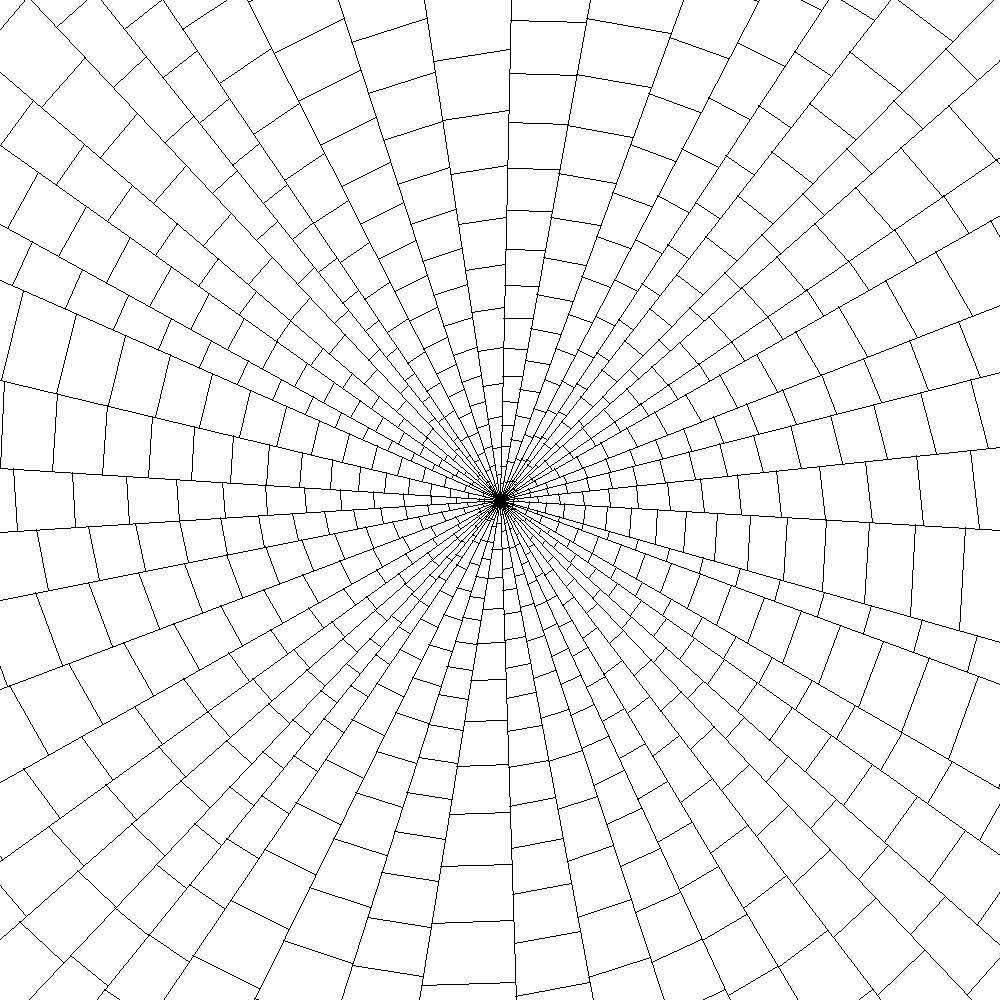
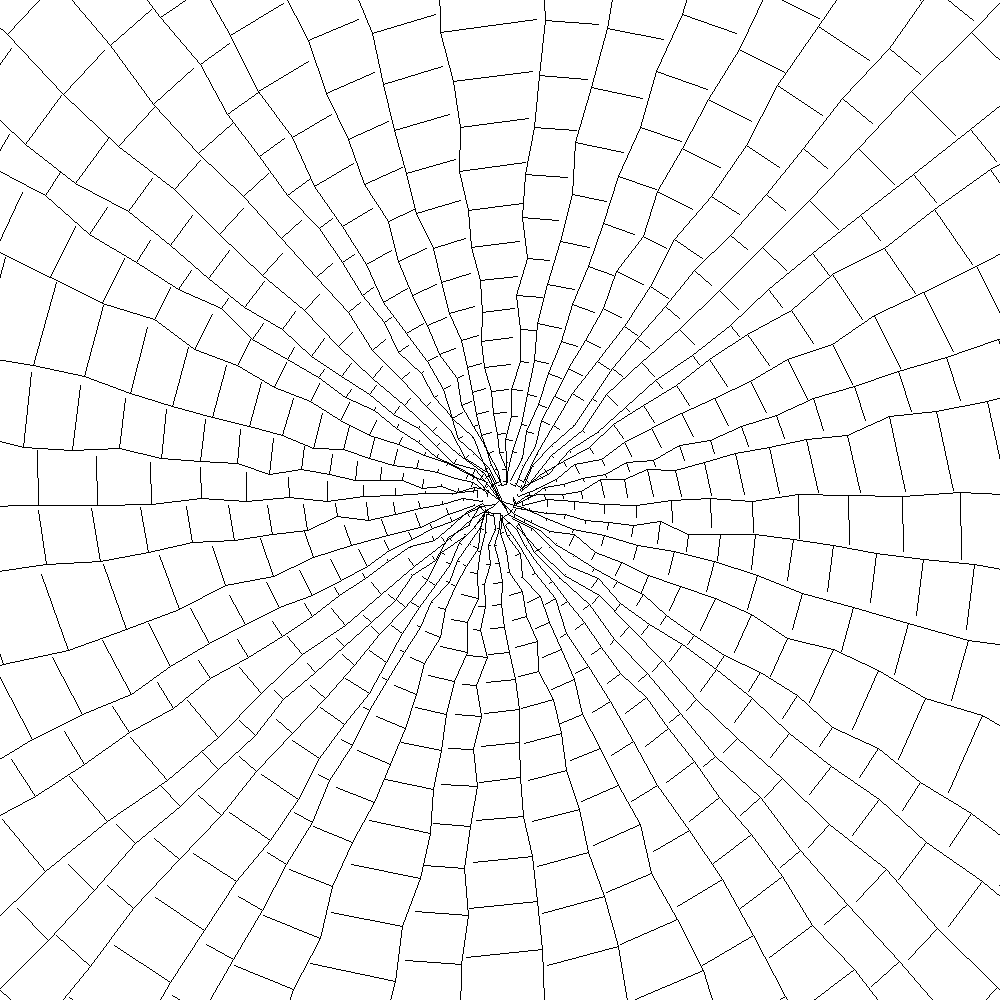
started converting stuff into oop

diff --git a/main2.py b/main2.py
@@ -1,0 +1,177 @@
+from PIL import Image, ImageDraw
+import random
+import math
+
+class Line:
+    def __init__(self, dimensions, breakage_points_per_line, break_point, edge_point):
+        self.dimensions = dimensions
+        self.breakage_points_per_line = breakage_points_per_line
+        self.break_point = break_point
+        self.line_points = self.get_line_points(break_point, edge_point, breakage_points_per_line)
+        self.normals = None
+
+    def get_line_points(self, start, end, break_points):
+        points = [start]
+        diff_x = end[0] - start[0]
+        diff_y = end[1] - start[1]
+        magnitude = math.sqrt(diff_x ** 2 + diff_y ** 2)
+        point_spacing = (magnitude / (break_points + 1)) / random.uniform(1, 2)
+        for i in range(1, break_points + 1, 1):
+            point_spacing *= 1.05
+            scale_factor = point_spacing / magnitude
+            spacing_x = diff_x * scale_factor
+            spacing_y = diff_y * scale_factor
+            points.append((start[0] + (i * spacing_x), start[1] + (i * spacing_y)))
+        points.append(end)
+        return points
+
+    def get_normal_lines(self, edge_point, edge_point2, break_point, number_of_normals):
+        normal_lines = []
+        # calculate normal gradient for edge point
+        gradient = self.get_gradient(edge_point, break_point)
+        if gradient == None:
+            return
+        normal_gradient = -1/gradient
+        
+        # get equation for next line
+        gradient2 = self.get_gradient(edge_point2, break_point)
+        if gradient == None:
+            return
+        y_intercept2 = edge_point2[1] - (gradient2 * edge_point2[0])
+
+        line_points = self.get_line_points(break_point, edge_point, number_of_normals)
+
+        # get intersection coord between normal line and second line for each point on line
+        for i in range(len(line_points) - 1):
+            point = line_points[i]
+            y_intercept = point[1] - (normal_gradient * point[0])
+            #draw.line([point, (100, (100 * normal_gradient) + y_intercept)], fill='green')
+            #draw.line([break_point, (point[0], (point[0] * gradient2) + y_intercept2)], fill='blue')
+
+            new_x = (gradient * (y_intercept2 - y_intercept)) / (-1 - (gradient2 * gradient))
+            new_y = (gradient2 * new_x) + y_intercept2
+            new_point = (new_x, new_y)
+
+            # move point and new point along normals by variation to change shape of region
+            variation = random.randint(1, 10)
+
+            point_normal_gradient = normal_gradient
+            grad = self.get_gradient(new_point, break_point)
+            if grad == 0 or grad == None:
+                continue
+            new_point_normal_gradient = -1 / grad
+            diff_x = new_point[0] - point[0]
+            diff_y = new_point[1] - point[1]
+            magnitude = math.sqrt(diff_x ** 2 + diff_y ** 2)
+            scale_factor = variation / magnitude
+            scale_x = diff_x * scale_factor
+            scale_y = diff_y * scale_factor
+            altered_point = (point[0] + scale_x, point[1] + scale_y)
+            normal_lines.append([altered_point, new_point])
+            #draw.ellipse([new_point, (new_point[0] + 1, new_point[1] + 1)], fill='green')
+
+        print(f"Generated {number_of_normals} lines between all the breakage lines")
+        return normal_lines
+
+    def get_gradient(self, a, b):
+        x = b[0] - a[0]
+        y = b[1] - a[1]
+        try:
+            return y / x
+        except:
+            return None
+        
+def get_edge_points(dimensions, breakage_lines, break_point):
+    perimeter = (dimensions[0] * 2) + (dimensions[1] * 2)
+    
+    # generate evenly spaced points
+    edge_points = [a * (perimeter / breakage_lines) for a in range(breakage_lines)]
+    print(f"Generated {breakage_lines} equally spaced edge points")
+
+    # vary points by a few pixels
+    for x in range(len(edge_points)):
+        direction = -1 if random.randint(0,1) == 0 else 1
+        if direction == -1:
+            edge_points[x] -= random.randint(1,20)
+        else:
+            edge_points[x] += random.randint(1,20)
+    print("Added a variation between 1 and 20 pixels to each edge point")
+
+    # shift points by random amount in random direction
+    direction = -1 if random.randint(0,1) == 0 else 1
+    offset = random.randint(1, breakage_lines)
+    if direction == -1:
+        offset *= -1
+    for x in range(len(edge_points)):
+        edge_points[x] += offset
+    print(f"Offset all edge points by {offset} pixels")
+
+    # move negative values to end of list
+    for point in edge_points:
+        if point < 0:
+            edge_points.append(perimeter + edge_points.pop(0))
+    print("Converted all negative edge points to positive points")
+
+    # put point into edge lists
+    top_edge = []
+    right_edge = []
+    bottom_edge = []
+    left_edge = []
+    for point in edge_points:
+        if point >= 0 and point < dimensions[0]:
+            top_edge.append(point)
+        elif point >= dimensions[0] and point < dimensions[0] + dimensions[1]:
+            right_edge.append(point)
+        elif point >= dimensions[0] + dimensions[1] and point < (dimensions[0] * 2) + dimensions[1]:
+            bottom_edge.append(point)
+        else:
+            left_edge.append(point)
+    print("Put all points into 4 edge lists")
+
+    # convert each edge point into a coordinate
+    for i in range(len(top_edge)):
+        top_edge[i] = (top_edge[i], 0)
+    for i in range(len(right_edge)):
+        right_edge[i] = (dimensions[0], right_edge[i] - dimensions[0])
+    for i in range(len(bottom_edge)):
+        bottom_edge[i] = (dimensions[0] - (bottom_edge[i] - dimensions[0] - dimensions[1]), dimensions[1])
+    for i in range(len(left_edge)):
+        left_edge[i] = (0, dimensions[1] - (left_edge[i] - (dimensions[0] * 2) - dimensions[1]))
+    print("Converted all edge points to coordinates")
+
+    edges = [top_edge, right_edge, bottom_edge, left_edge]
+    return edges
+
+def main():
+    dimensions = (1000, 1000)
+    breakage_lines = 50
+    breakage_points_per_line = 20
+    break_point = (500, 500)
+    line_color = 'black'
+
+    edge_points = get_edge_points(dimensions, breakage_lines, break_point)
+    lines = [Line(dimensions, breakage_points_per_line, break_point, edge_point) for edge in edge_points for edge_point in edge]
+    for edge in edge_points:
+        for i in range(1, len(edge) - 1, 1):
+            lines[i].normals = lines[i].get_normal_lines(edge[i], edge[i + 1], break_point, breakage_points_per_line)
+
+    im = Image.new('RGB', dimensions, (255, 255, 255))
+    draw = ImageDraw.Draw(im)
+    # draw lines from break_point to each edge point
+    '''for edge in edge_points:
+        for point in edge:
+            draw.line([break_point, point], fill=line_color)'''
+    # draw lines for each break point on each line
+    #normal_lines, line_points = get_normal_lines(edge_points, break_point, breakage_points_per_line)
+    for line in lines:
+        for normal in line.normals:
+            draw.line(normal, fill=line_color)
+
+    # draw lines emitting from break point
+    #for line in line_points:
+    #    for x in range(len(line) - 1):
+    #        draw.line([line[x], line[x + 1]], fill='black')
+    im.save('output.png')
+
+if __name__ == '__main__':
+    main()

diff --git a/main.py b/main.py
@@ -86,27 +86,25 @@ def get_normal_lines(edges, break_point, number_of_normals):
     points.append(points[0])
     
     normal_lines = []
+    varied_points = []
     for i in range(len(points) - 1):
         # calculate normal gradient for edge point
         point = points[i]
-        diff_x = break_point[0] - point[0]
-        diff_y = break_point[1] - point[1]
-        if diff_x == 0 or diff_y == 0:
+        gradient = get_gradient(point, break_point)
+        if gradient == None:
             continue
-        gradient = diff_y / diff_x
         normal_gradient = -1/gradient
         
         # get equation for next line
         point = points[i + 1]
-        diff_x = break_point[0] - point[0]
-        diff_y = break_point[1] - point[1]
-        if diff_x == 0 or diff_y == 0:
+        gradient2 = get_gradient(point, break_point)
+        if gradient == None:
             continue
-        gradient2 = diff_y / diff_x
         y_intercept2 = point[1] - (gradient2 * point[0])
 
         line_points = get_line_points(break_point, points[i], number_of_normals)
-        
+
+        temp = []
         # get intersection coord between normal line and second line for each point on line
         for i in range(len(line_points) - 1):
             point = line_points[i]
@@ -117,11 +115,38 @@ def get_normal_lines(edges, break_point, number_of_normals):
             new_x = (gradient * (y_intercept2 - y_intercept)) / (-1 - (gradient2 * gradient))
             new_y = (gradient2 * new_x) + y_intercept2
             new_point = (new_x, new_y)
-            normal_lines.append([point, new_point])
+
+            # move point and new point along normals by variation to change shape of region
+            variation = random.randint(1, 10)
+
+            point_normal_gradient = normal_gradient
+            grad = get_gradient(new_point, break_point)
+            if grad == 0 or grad == None:
+                continue
+            new_point_normal_gradient = -1 / grad
+            diff_x = new_point[0] - point[0]
+            diff_y = new_point[1] - point[1]
+            magnitude = math.sqrt(diff_x ** 2 + diff_y ** 2)
+            scale_factor = variation / magnitude
+            scale_x = diff_x * scale_factor
+            scale_y = diff_y * scale_factor
+            altered_point = (point[0] + scale_x, point[1] + scale_y)
+            normal_lines.append([altered_point, new_point])
+            temp.append(altered_point)
             #draw.ellipse([new_point, (new_point[0] + 1, new_point[1] + 1)], fill='green')
+        varied_points.append(temp)
+        temp = []
 
     print(f"Generated {number_of_normals} lines between all the breakage lines")
-    return normal_lines
+    return normal_lines, varied_points
+
+def get_gradient(a, b):
+    x = b[0] - a[0]
+    y = b[1] - a[1]
+    try:
+        return y / x
+    except:
+        return None
 
 def main():
     dimensions = (1000, 1000)
@@ -135,13 +160,20 @@ def main():
     im = Image.new('RGB', dimensions, (255, 255, 255))
     draw = ImageDraw.Draw(im)
     # draw lines from break_point to each edge point
-    for edge in edge_points:
+    '''for edge in edge_points:
         for point in edge:
-            draw.line([break_point, point], fill=line_color)
+            draw.line([break_point, point], fill=line_color)'''
     # draw lines for each break point on each line
-    for line in get_normal_lines(edge_points, break_point, breakage_points_per_line):
+    normal_lines, line_points = get_normal_lines(edge_points, break_point, breakage_points_per_line)
+    for line in normal_lines:
         draw.line(line, fill=line_color)
+
+    # draw lines emitting from break point
+    for line in line_points:
+        for x in range(len(line) - 1):
+            draw.line([line[x], line[x + 1]], fill='black')
     im.save('output.png')
 
 if __name__ == '__main__':
     main()
+        
